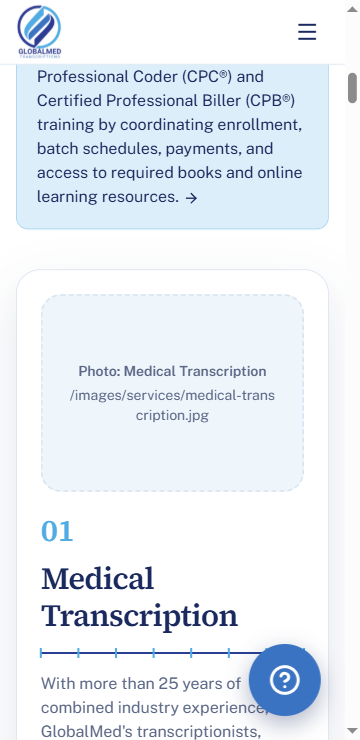
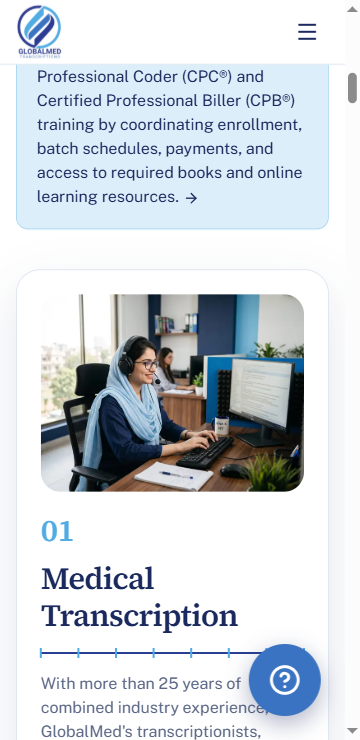
feat(marketing): add the client's service photos to the home services cards
- 4:3 JPGs (1600×1200, ~140–200 KB) made from the supplied .jfif files, with alt text
- Claim-line rule visible on the navy card; e2e waits for hydration and the next frame
- Screenshots at 1280, 768, 360 and reduced motion refreshed

Changed region(s): [[0.0917, 0.373, 0.8556, 0.6838]]

diff --git a/content/home-services.ts b/content/home-services.ts
@@ -33,7 +33,7 @@ export const serviceCards: ServiceCard[] = [
     title: "Medical Transcription",
     image: {
       src: "/images/services/medical-transcription.jpg",
-      alt: "Medical transcriptionist reviewing a clinical report",
+      alt: "Medical transcriptionist with a headset typing a clinical report at her workstation",
     },
     paragraphs: [
       "With more than 25 years of combined industry experience, GlobalMed's transcriptionists, editors, and proofreaders deliver accurate clinical documentation across medical specialties and at scale. Our team works with a wide range of EMR and EHR systems and is experienced in editing voice recognition and AI-generated drafts.",
@@ -47,7 +47,7 @@ export const serviceCards: ServiceCard[] = [
     title: "AI-Powered Clinical Documentation",
     image: {
       src: "/images/services/ai-clinical-documentation.jpg",
-      alt: "Clinical dictation turned into a structured draft report",
+      alt: "Laptop screen showing a voice waveform turning into a structured draft report",
     },
     paragraphs: [
       "Dictation2Report (D2R) by MediTechLabs transforms clinical dictations into structured draft reports in minutes. Combined with expert review, it offers an end-to-end solution for faster, accurate clinical documentation.",
@@ -61,7 +61,7 @@ export const serviceCards: ServiceCard[] = [
     title: "Revenue Cycle Management (RCM)",
     image: {
       src: "/images/services/revenue-cycle-management.jpg",
-      alt: "Medical billing specialist reviewing claims",
+      alt: "Medical biller reviewing a CMS-1500 claim form beside a revenue dashboard",
     },
     paragraphs: [
       "GlobalMed supports your revenue cycle from patient registration through final payment. Our team includes certified medical billing and coding professionals who help practices submit accurate claims, address denials, and improve collections.",
@@ -88,7 +88,7 @@ export const serviceCards: ServiceCard[] = [
     title: "AAPC Certifications: CPC® and CPB®",
     image: {
       src: "/images/services/aapc-certification.jpg",
-      alt: "Students preparing for AAPC CPC and CPB certification",
+      alt: "Student taking notes during a live online medical coding class",
     },
     paragraphs: [
       "Through its strategic partnership with the American Academy of Professional Coders (AAPC), GlobalMed helps students in Pakistan access training for two internationally recognized credentials: Certified Professional Coder (CPC®) and Certified Professional Biller (CPB®).",

diff --git a/tests/e2e/home-services.spec.ts b/tests/e2e/home-services.spec.ts
@@ -86,11 +86,11 @@ test.describe("home services (desktop, motion allowed)", () => {
 
     // Fully stacked: earlier cards are scaled down, never below 0.88.
     await page.evaluate((y) => window.scrollTo(0, y), bottom - 900);
-    const scales = await cards.evaluateAll((as) =>
-      as.map((a) => new DOMMatrix(getComputedStyle(a).transform).a),
-    );
-    expect(scales[0]).toBeLessThan(1);
-    for (const s of scales) expect(s).toBeGreaterThanOrEqual(0.88);
+    const scales = () =>
+      cards.evaluateAll((as) => as.map((a) => new DOMMatrix(getComputedStyle(a).transform).a));
+    // Motion applies the new scale on the next frame.
+    await expect.poll(async () => (await scales())[0]).toBeLessThan(1);
+    for (const s of await scales()) expect(s).toBeGreaterThanOrEqual(0.88);
 
     // No clipping or transformed ancestor above the sticky cards.
     const offenders = await cards.first().evaluate((a) => {
@@ -118,6 +118,8 @@ test.describe("home services (phone and reduced motion)", () => {
         await page.goto("/");
         const cards = page.locator("#services article");
         await expect(cards).toHaveCount(4);
+        // After hydration the plain stack (one-time fade wrappers) replaces the server markup.
+        await expect(page.locator("#services .transition-opacity > article")).toHaveCount(4);
         const { top, bottom } = await servicesRange(page);
         for (let y = top; y <= bottom; y += 400) {
           await page.evaluate((y) => window.scrollTo(0, y), y);
